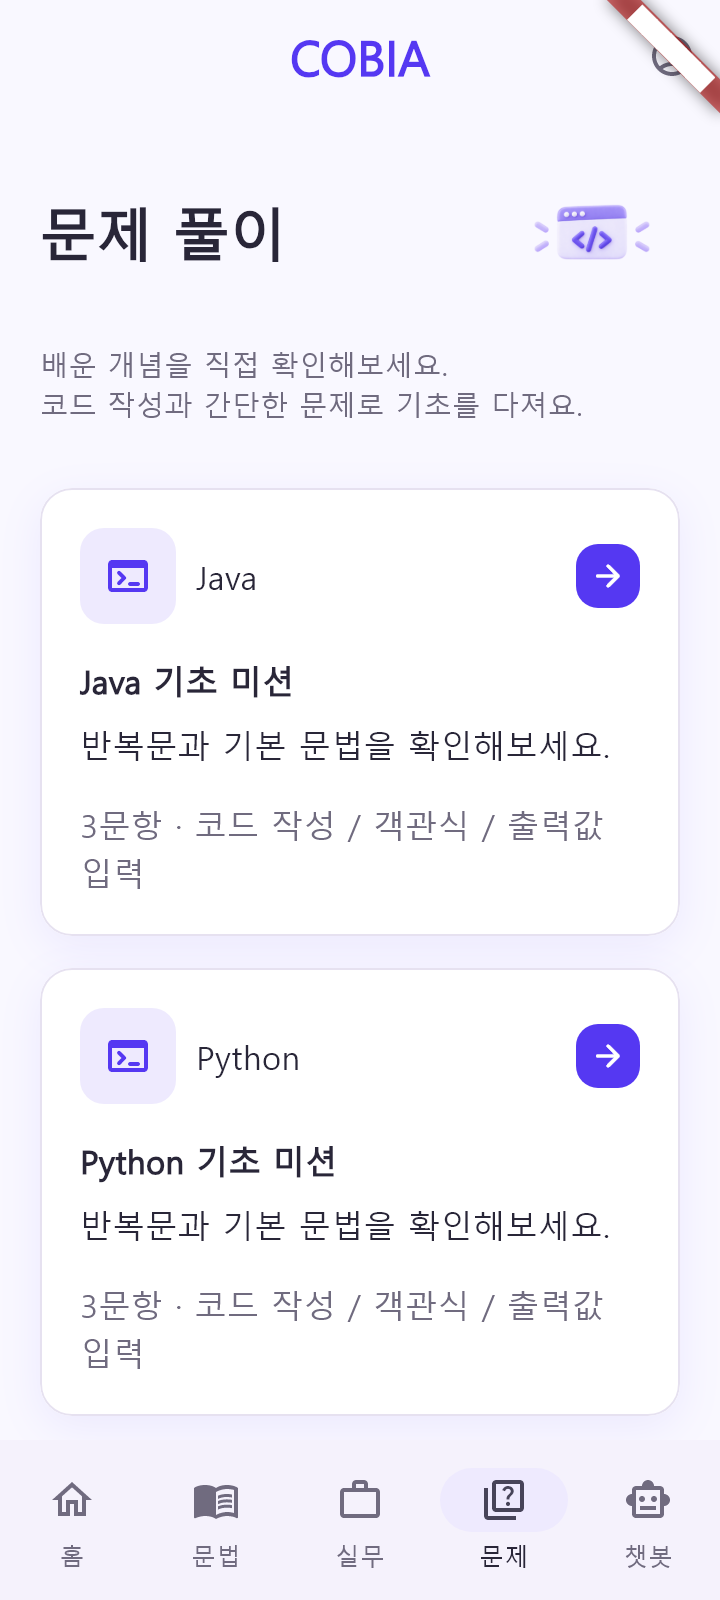
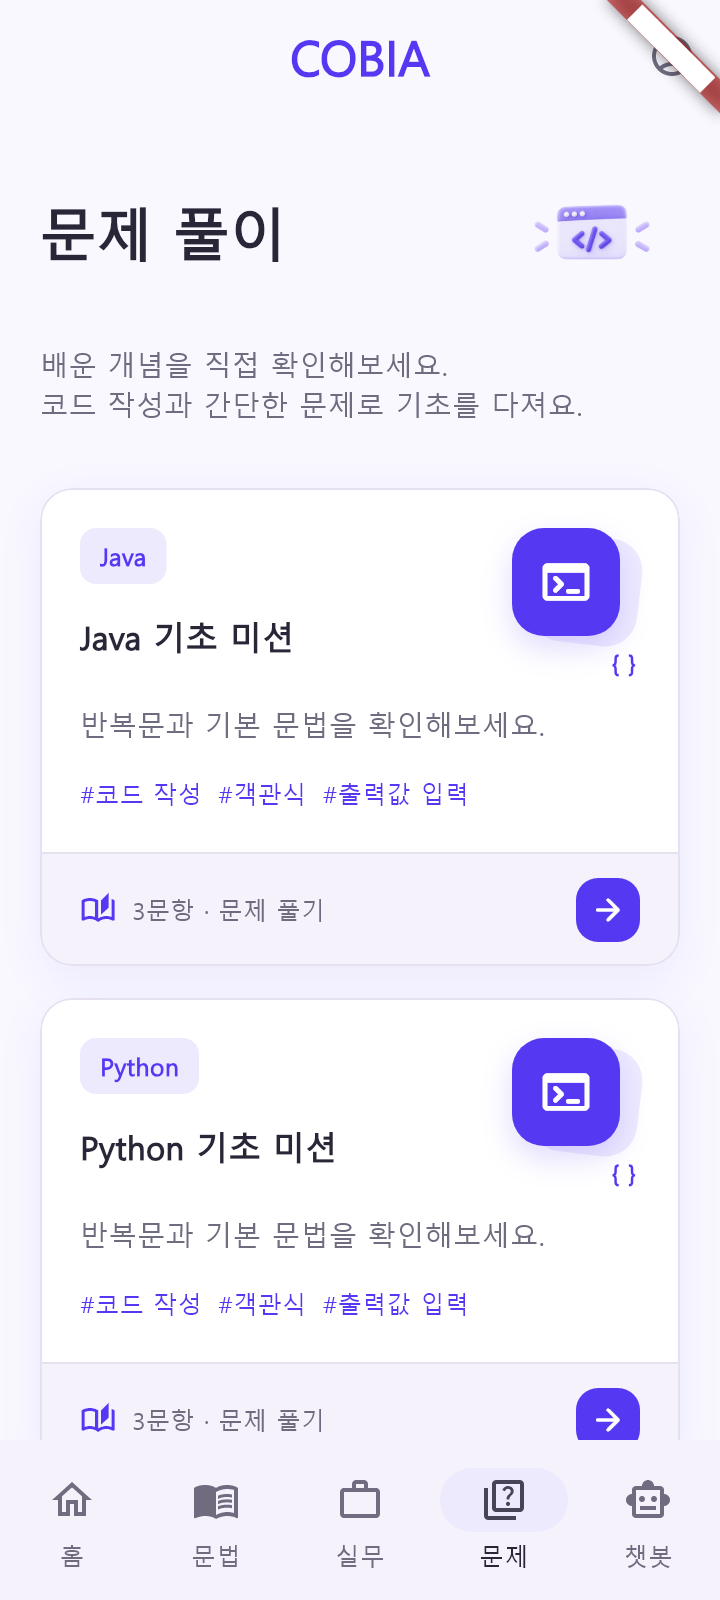
style: 문제 홈 미션 카드 디자인 개선

diff --git a/lib/features/problems/presentation/problems_home_screen.dart b/lib/features/problems/presentation/problems_home_screen.dart
@@ -1,3 +1,4 @@
+import '../../../app/widgets/learning_overview_content.dart';
 import '../../../app/widgets/learning_card.dart';
 import '../../../app/widgets/learning_ui.dart';
 import '../../../app/app_ui_tokens.dart';
@@ -48,33 +49,14 @@ class ProblemsHomeScreen extends StatelessWidget {
                       AppRouteNames.problemMission,
                       pathParameters: {'mission': mission.id},
                     ),
-                    child: Padding(
-                      padding: const EdgeInsets.all(20),
-                      child: Column(
-                        crossAxisAlignment: CrossAxisAlignment.start,
-                        children: [
-                          Row(
-                            children: [
-                              const LearningIcon(
-                                Icons.terminal_rounded,
-                                size: 48,
-                              ),
-                              const SizedBox(width: 10),
-                              Expanded(child: Text(mission.language)),
-                              const LearningCardArrow(),
-                            ],
-                          ),
-                          const SizedBox(height: 16),
-                          Text(mission.title, style: AppTypography.card),
-                          const SizedBox(height: 8),
-                          const Text('반복문과 기본 문법을 확인해보세요.'),
-                          const SizedBox(height: 16),
-                          const Text(
-                            '3문항 · 코드 작성 / 객관식 / 출력값 입력',
-                            style: TextStyle(color: AppColors.textSecondary),
-                          ),
-                        ],
-                      ),
+                    child: LearningOverviewContent(
+                      label: mission.language,
+                      title: mission.title,
+                      description: '반복문과 기본 문법을 확인해보세요.',
+                      icon: Icons.terminal_rounded,
+                      symbol: '{ }',
+                      tags: const ['코드 작성', '객관식', '출력값 입력'],
+                      footer: '3문항 · 문제 풀기',
                     ),
                   ),
                 ),
